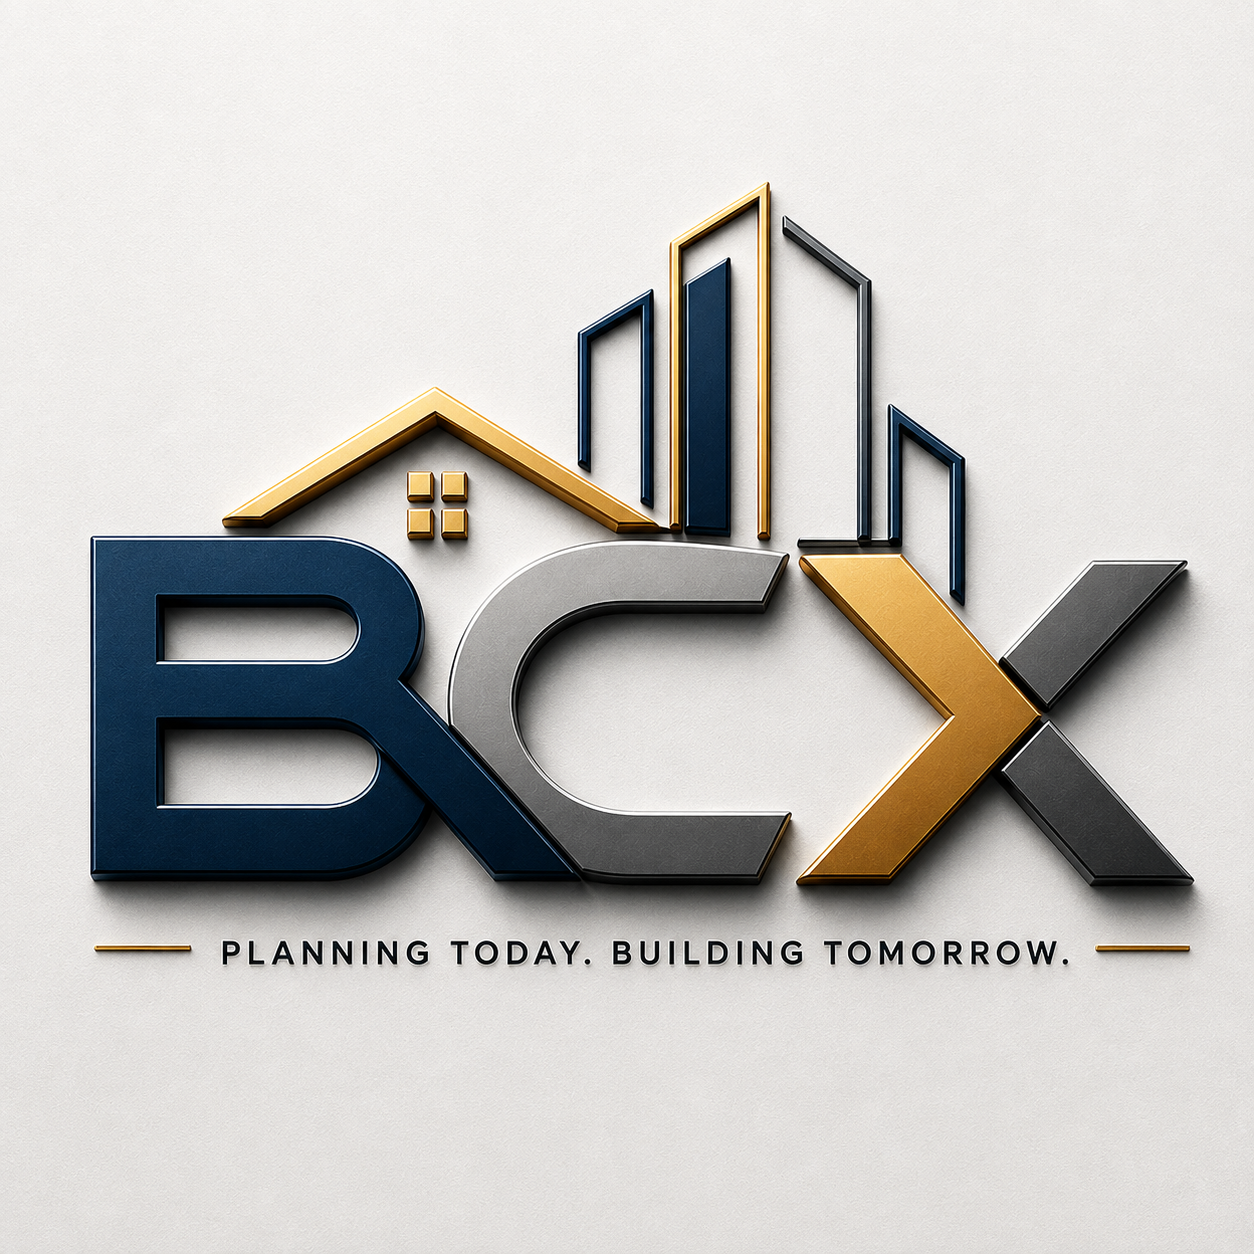
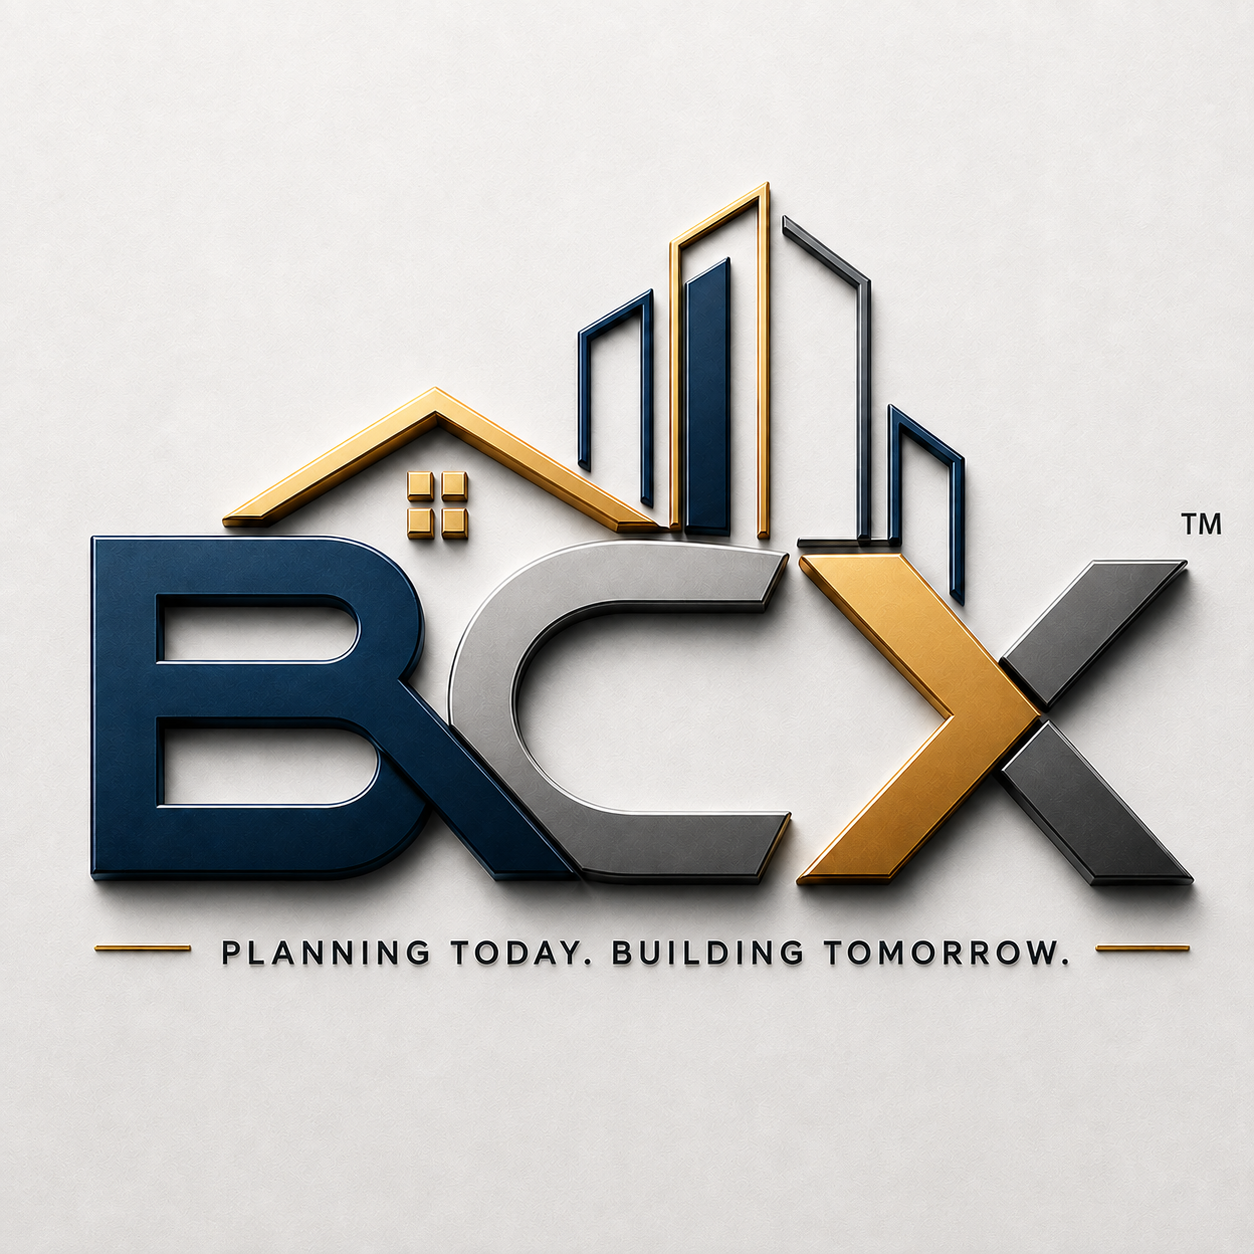
update navbar and footer

diff --git a/src/components/sections/Footer.jsx b/src/components/sections/Footer.jsx
@@ -1,5 +1,12 @@
 import { useEffect, useRef } from "react";
-import { ArrowUpRight, Instagram, Facebook, Linkedin, Youtube, ArrowUp } from "lucide-react";
+import {
+  ArrowUpRight,
+  Instagram,
+  Facebook,
+  Linkedin,
+  Youtube,
+  ArrowUp,
+} from "lucide-react";
 import { gsap } from "../../lib/gsap";
 
 const footerLinks = [
@@ -12,11 +19,27 @@ const footerLinks = [
 ];
 
 const socialLinks = [
-  { label: "Instagram", href: "https://www.instagram.com/buldcontx/", icon: Instagram },
-  { label: "Facebook", href: "https://www.facebook.com/profile.php?id=61593479906247", icon: Facebook },
-  { label: "LinkedIn", href: "https://www.linkedin.com/in/palani-ganesan-b27a903a/", icon: Linkedin },
+  {
+    label: "Instagram",
+    href: "https://www.instagram.com/buldcontx/",
+    icon: Instagram,
+  },
+  {
+    label: "Facebook",
+    href: "https://www.facebook.com/profile.php?id=61593479906247",
+    icon: Facebook,
+  },
+  {
+    label: "LinkedIn",
+    href: "https://www.linkedin.com/in/palani-ganesan-b27a903a/",
+    icon: Linkedin,
+  },
   { label: "X", href: "https://x.com/buldcontx", icon: "x" },
-  { label: "YouTube", href: "https://www.youtube.com/@BuldContx", icon: Youtube },
+  {
+    label: "YouTube",
+    href: "https://www.youtube.com/@BuldContx",
+    icon: Youtube,
+  },
 ];
 
 export default function Footer() {
@@ -42,7 +65,7 @@ export default function Footer() {
             trigger: footer,
             start: "top 85%",
           },
-        }
+        },
       );
 
       gsap.fromTo(
@@ -58,7 +81,7 @@ export default function Footer() {
             trigger: footer,
             start: "top 75%",
           },
-        }
+        },
       );
 
       gsap.fromTo(
@@ -73,7 +96,7 @@ export default function Footer() {
             trigger: footer,
             start: "top 70%",
           },
-        }
+        },
       );
 
       gsap.fromTo(
@@ -89,7 +112,7 @@ export default function Footer() {
             trigger: ".footer-navigation",
             start: "top 85%",
           },
-        }
+        },
       );
 
       gsap.to(gridRef.current, {
@@ -115,10 +138,16 @@ export default function Footer() {
   };
 
   return (
-    <footer ref={footerRef} className="relative overflow-hidden bg-[#0b1820] px-5 pb-6 pt-24 text-white sm:px-8 lg:px-16 lg:pt-32">
+    <footer
+      ref={footerRef}
+      className="relative overflow-hidden bg-[#0b1820] px-5 pb-6 pt-24 text-white sm:px-8 lg:px-16 lg:pt-32"
+    >
       {/* ARCHITECTURAL GRID */}
 
-      <div ref={gridRef} className="pointer-events-none absolute inset-0 opacity-[0.07] bg-[linear-gradient(rgba(109,166,194,.7)_1px,transparent_1px),linear-gradient(90deg,rgba(109,166,194,.7)_1px,transparent_1px)] bg-size-[65px_65px]" />
+      <div
+        ref={gridRef}
+        className="pointer-events-none absolute inset-0 opacity-[0.07] bg-[linear-gradient(rgba(109,166,194,.7)_1px,transparent_1px),linear-gradient(90deg,rgba(109,166,194,.7)_1px,transparent_1px)] bg-size-[65px_65px]"
+      />
 
       <div className="pointer-events-none absolute left-1/2 top-0 size-150 -translate-x-1/2 rounded-full bg-[#176f5b]/8 blur-[150px]" />
 
@@ -138,7 +167,12 @@ export default function Footer() {
             <div ref={logoRef}>
               <h2 className="font-[Space_Grotesk] text-6xl font-semibold leading-[.8] tracking-[-0.075em] sm:text-7xl lg:text-[10rem]">
                 Buld
-                <span className="text-[#39a989]">Contx</span>
+                <span className="text-[#39a989]">
+                  Contx
+                  <sup className="absolute right-[-0.15em] top-[-0.05em] text-[0.12em] font-bold tracking-normal">
+                    TM
+                  </sup>
+                </span>
               </h2>
 
               <p className="mt-8 max-w-2xl text-lg leading-8 text-white/45 sm:text-xl">
@@ -160,7 +194,6 @@ export default function Footer() {
               className="group mt-7 inline-flex items-center gap-3 rounded-full bg-[#176f5b] px-6 py-3.5 text-sm font-medium text-white transition-all duration-300 hover:bg-[#39a989] hover:text-[#0b1820]"
             >
               Start Your Project
-
               <ArrowUpRight
                 size={17}
                 className="transition-transform duration-300 group-hover:-translate-y-0.5 group-hover:translate-x-0.5"
@@ -208,17 +241,21 @@ export default function Footer() {
             </p>
 
             <div className="mt-6 space-y-3">
-              <a href="tel:+917339693861" className="block text-sm text-white/50 transition-colors hover:text-white">
+              <a
+                href="tel:+917339693861"
+                className="block text-sm text-white/50 transition-colors hover:text-white"
+              >
                 +91 7339693861
               </a>
 
-              <a href="mailto:hello@buldcontx.com" className="block text-sm text-white/50 transition-colors hover:text-white">
+              <a
+                href="mailto:hello@buldcontx.com"
+                className="block text-sm text-white/50 transition-colors hover:text-white"
+              >
                 buldcontx@gmail.com
               </a>
 
-              <p className="text-sm text-white/50">
-                Tamil Nadu, India
-              </p>
+              <p className="text-sm text-white/50">Tamil Nadu, India</p>
             </div>
 
             <div className="mt-6 flex gap-2">
@@ -248,7 +285,6 @@ export default function Footer() {
               className="group flex items-center gap-3 text-sm text-white/50 transition-colors hover:text-white"
             >
               Back to top
-
               <span className="grid size-9 place-items-center rounded-full border border-white/10 transition-all duration-300 group-hover:border-[#39a989] group-hover:bg-[#39a989] group-hover:text-[#0b1820]">
                 <ArrowUp size={15} />
               </span>
@@ -264,11 +300,17 @@ export default function Footer() {
           </p>
 
           <div className="flex gap-5">
-            <a href="#" className="font-mono text-[8px] uppercase tracking-[0.2em] text-white/25 transition-colors hover:text-white/60">
+            <a
+              href="#"
+              className="font-mono text-[8px] uppercase tracking-[0.2em] text-white/25 transition-colors hover:text-white/60"
+            >
               Privacy
             </a>
 
-            <a href="#" className="font-mono text-[8px] uppercase tracking-[0.2em] text-white/25 transition-colors hover:text-white/60">
+            <a
+              href="#"
+              className="font-mono text-[8px] uppercase tracking-[0.2em] text-white/25 transition-colors hover:text-white/60"
+            >
               Terms
             </a>
           </div>
@@ -280,7 +322,10 @@ export default function Footer() {
 
 function FooterLink({ label, href }) {
   return (
-    <a href={href} className="group flex items-center gap-2 text-sm text-white/50 transition-colors duration-300 hover:text-white">
+    <a
+      href={href}
+      className="group flex items-center gap-2 text-sm text-white/50 transition-colors duration-300 hover:text-white"
+    >
       <span className="h-px w-0 bg-[#39a989] transition-all duration-300 group-hover:w-4" />
       {label}
     </a>
@@ -297,7 +342,11 @@ function SocialButton({ label, href, icon: Icon }) {
       className="grid size-9 place-items-center rounded-full border border-white/10 text-white/40 transition-all duration-300 hover:border-[#39a989]/50 hover:bg-[#39a989] hover:text-[#0b1820]"
     >
       {Icon === "x" ? (
-        <svg viewBox="0 0 24 24" className="size-3.5 fill-current" aria-hidden="true">
+        <svg
+          viewBox="0 0 24 24"
+          className="size-3.5 fill-current"
+          aria-hidden="true"
+        >
           <path d="M18.244 2.25h3.308l-7.227 8.26 8.502 11.24H16.17l-5.214-6.817-5.963 6.817H1.684l7.73-8.835L1.254 2.25H8.08l4.713 6.231 5.45-6.231Zm-1.161 17.52h1.833L7.084 4.126H5.117L17.083 19.77Z" />
         </svg>
       ) : (

diff --git a/src/components/navigation/Navbar.jsx b/src/components/navigation/Navbar.jsx
@@ -52,6 +52,9 @@ export default function Navbar() {
 
             <span className="font-display text-base font-bold tracking-tight text-ink sm:text-lg">
               buldcontx
+              <sup className="ml-0.5 text-[8px] font-semibold align-super sm:text-[9px]">
+                TM
+              </sup>
             </span>
           </button>
 
@@ -120,9 +123,13 @@ export default function Navbar() {
                   animate={{ opacity: 1, y: 0 }}
                   transition={{ delay: 0.3, duration: 0.5 }}
                   onClick={() => go("home")}
-                  className="font-display text-xl font-bold sm:text-2xl"
+                  className="relative font-display text-xl font-bold sm:text-2xl lg:text-[3rem]! lg:leading-none!"
                 >
-                  buld<span className="text-[#5EC8BE]">contx</span>
+                  buld
+                  <span className="text-[#5EC8BE]">contx</span>
+                  <sup className="absolute right-[-0.18em] top-[-0.12em] text-[0.22em]! font-bold leading-none tracking-normal">
+                    TM
+                  </sup>
                 </motion.button>
 
                 <motion.button
